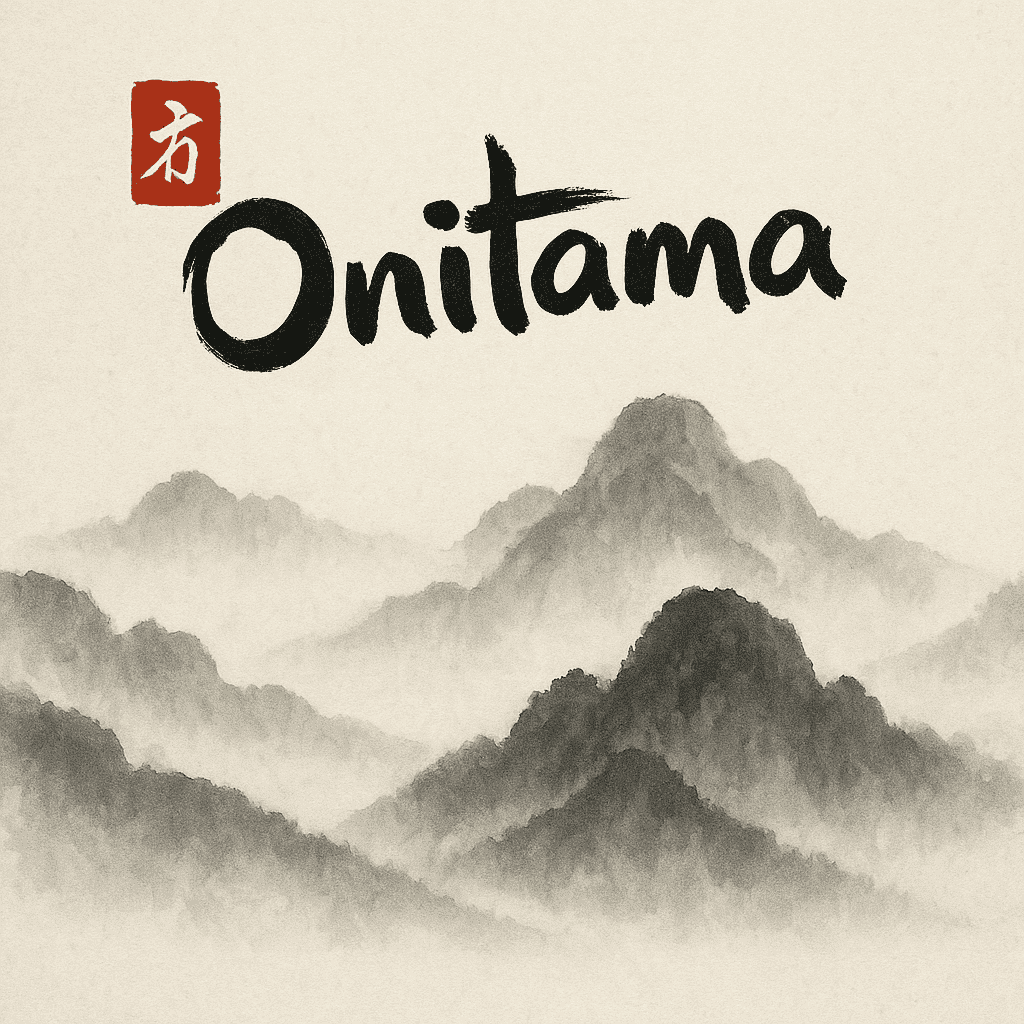
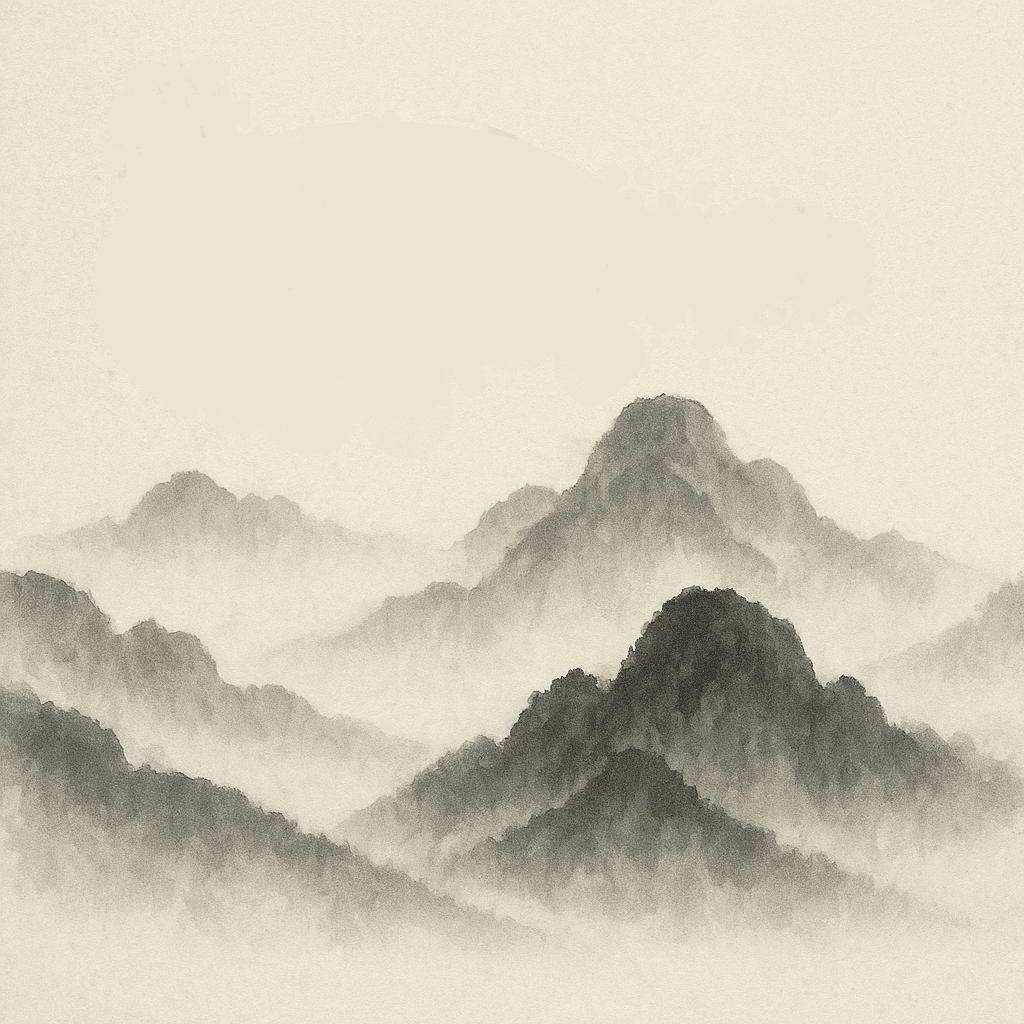
mise à jour

Changed region(s): [[0.125, 0.0625, 0.8438, 0.375]]

diff --git a/src/Vue/Adaptateurs/AdaptateurClavier.java b/src/Vue/Adaptateurs/AdaptateurClavier.java
@@ -31,57 +31,122 @@ import Vue.CollecteurEvenements;
 
 import java.awt.event.KeyEvent;
 import java.awt.event.KeyListener;
+import java.util.logging.Logger;
 
-
+/**
+ * Adaptateur qui transforme les événements clavier en commandes pour le jeu.
+ * Cette classe implémente KeyListener et peut être attachée à n'importe quel composant Swing.
+ */
 public class AdaptateurClavier implements KeyListener {
-    CollecteurEvenements control;
+    private static final Logger logger = Logger.getLogger(AdaptateurClavier.class.getName());
+    private final CollecteurEvenements control;
 
+    /**
+     * Constructeur de l'adaptateur clavier.
+     * 
+     * @param c Le collecteur d'événements qui recevra les commandes générées par les touches du clavier
+     */
     public AdaptateurClavier(CollecteurEvenements c) {
         control = c;
     }
 
+    /**
+     * Gère les événements de touche pressée et les transmet au collecteur d'événements.
+     * 
+     * @param event L'événement de touche pressée
+     */
     @Override
     public void keyPressed(KeyEvent event) {
+        String commande = null;
+
         switch (event.getKeyCode()) {
+            // Gestion du jeu
             case KeyEvent.VK_U:
-                control.clavier("annuler");
-                System.out.println("annuler");
+                commande = "annuler";
                 break;
             case KeyEvent.VK_R:
-                control.clavier("refaire");
-                System.out.println("refaire");
+                commande = "refaire";
                 break;
-            case KeyEvent.VK_Q:
-            case KeyEvent.VK_A:
-                control.clavier("exit");
-                System.out.println("exit");
+            case KeyEvent.VK_SPACE:
+            case KeyEvent.VK_P:
+                commande = "pause";
                 break;
-            case KeyEvent.VK_I:
-                control.clavier("ia");
-                System.out.println("ia");
-                break;
+
+            // Navigation
             case KeyEvent.VK_ESCAPE:
-                control.clavier("full");
-                System.out.println("full");
+                commande = "full";
+                break;
+            case KeyEvent.VK_F:
+                commande = "full";
                 break;
             case KeyEvent.VK_ENTER:
-                control.clavier("demarrer");
+                commande = "demarrer";
                 break;
-                case KeyEvent.VK_SPACE:
-                    control.clavier("pause");
-                    break;
+            case KeyEvent.VK_M:
+                commande = "menu";
+                break;
 
+            // Actions
+            case KeyEvent.VK_Q:
+            case KeyEvent.VK_A:
+                commande = "exit";
+                break;
+            case KeyEvent.VK_S:
+                commande = "sauvegarder";
+                break;
+            case KeyEvent.VK_N:
+                commande = "nouvellePartie";
+                break;
+            case KeyEvent.VK_H:
+                commande = "regles";
+                break;
+
+            // IA
+            case KeyEvent.VK_I:
+                commande = "ia";
+                break;
+
+            // Navigation dans le menu avec les flèches
+            case KeyEvent.VK_UP:
+                commande = "haut";
+                break;
+            case KeyEvent.VK_DOWN:
+                commande = "bas";
+                break;
+            case KeyEvent.VK_LEFT:
+                commande = "gauche";
+                break;
+            case KeyEvent.VK_RIGHT:
+                commande = "droite";
+                break;
+        }
+
+        if (commande != null) {
+            logger.info("Touche clavier: " + commande);
+            control.clavier(commande);
         }
     }
 
+    /**
+     * Méthode appelée lorsqu'une touche est relâchée.
+     * Cette méthode est requise par l'interface KeyListener mais n'est pas utilisée dans cette implémentation.
+     * 
+     * @param e L'événement de touche relâchée
+     */
     @Override
     public void keyReleased(KeyEvent e) {
-        // Pas utilisé, mais doit être implémenté.
+        // Pas utilisé, mais doit être implémenté pour l'interface KeyListener.
     }
 
+    /**
+     * Méthode appelée lorsqu'une touche est tapée (pressée puis relâchée).
+     * Cette méthode est requise par l'interface KeyListener mais n'est pas utilisée dans cette implémentation.
+     * 
+     * @param e L'événement de touche tapée
+     */
     @Override
     public void keyTyped(KeyEvent e) {
-        // Non utilisé, mais doit être implémenté.
+        // Non utilisé, mais doit être implémenté pour l'interface KeyListener.
     }
 
 

diff --git a/src/Vue/EcranDeDemarrage.java b/src/Vue/EcranDeDemarrage.java
@@ -275,7 +275,7 @@ public class EcranDeDemarrage extends JTabbedPane {
      * @return Le JPanel de l'onglet Couleur.
      */
     private JPanel creerOngletCouleur() {
-        PanelAvecImage ongletCouleur = new PanelAvecImage(PATH_ARRIERE_PLAN_03);
+        PanelAvecImage ongletCouleur = new PanelAvecImage(PATH_ARRIERE_PLAN_12);
         ongletCouleur.setLayout(new GridBagLayout());
         GridBagConstraints gbc;
         int ligneCourante = 0;
@@ -383,7 +383,7 @@ public class EcranDeDemarrage extends JTabbedPane {
         couleursInitiales.put(cible, couleurInitiale);
 
         // Étiquette descriptive
-        JPanel etiquettePanel = PngText.createPngPanel(texteEtiquette, 20);
+        JPanel etiquettePanel = PngText.createPngPanel(texteEtiquette, 23);
         etiquettePanel.setOpaque(false);
         etiquettePanel.setFont(FONT_LABEL);
         GridBagConstraints gbcLabel = new GridBagConstraints();
@@ -583,21 +583,4 @@ public class EcranDeDemarrage extends JTabbedPane {
     }
 
 
-    /**
-     * Crée un JLabel avec une image redimensionnée.
-     * (Note: Cette méthode est moins utilisée maintenant que PngText.createPngPanel est préféré pour les labels PNG).
-     *
-     * @param urlImage Le chemin vers l'image.
-     * @param width    La largeur désirée de l'image.
-     * @param height   La hauteur désirée de l'image.
-     * @return Un JLabel contenant l'image redimensionnée.
-     */
-    private JLabel creerLabelAvecImage(URL urlImage, int width, int height) {
-        JLabel label = new JLabel();
-        ImageIcon icon = new ImageIcon(urlImage);
-        Image image = icon.getImage().getScaledInstance(width, height, Image.SCALE_SMOOTH);
-        ImageIcon scaledIcon = new ImageIcon(image);
-        label.setIcon(scaledIcon);
-        return label;
-    }
 }

diff --git a/src/Vue/EcranMenu.java b/src/Vue/EcranMenu.java
@@ -68,8 +68,17 @@ public class EcranMenu extends PanelAvecImage implements Observateur {
         this.interfaceGraphique = interfaceGraphique;
         this.jeu.ajouteObservateur(this);
 
+        // Rendre l'écran focusable pour recevoir les événements clavier
+        this.setFocusable(true);
+
+        // Ajouter l'adaptateur clavier
+        this.addKeyListener(new AdaptateurClavier(collecteurEv));
+
         initialiserLayout();
         miseAJour();
+
+        // Demander le focus pour recevoir les événements clavier
+        this.requestFocusInWindow();
     }
 
 

diff --git a/src/Global/Paths.java b/src/Global/Paths.java
@@ -49,6 +49,8 @@ public class Paths {
     public static final URL PATH_ARRIERE_PLAN_03 = getArrierePlanPath("arrierePlan10.png");
     public static final URL PATH_ARRIERE_PLAN_4 = getArrierePlanPath("arrierePlan4.png");
     public static final URL PATH_ARRIERE_PLAN_8 = getArrierePlanPath("arrierePlan8.png");
+    public static final URL PATH_ARRIERE_PLAN_12 = getArrierePlanPath("arrierePlan12.png");
+
 
     /********************************************
      *              IMAGES PIONS               *

diff --git a/src/Global/Config.java b/src/Global/Config.java
@@ -61,7 +61,7 @@ public class Config {
     }
 
     // -- DIMENSION --
-    public static final Dimension DIM_SCENE = new Dimension(800, 600);
+    public static final Dimension DIM_SCENE = new Dimension(800, 650);
 
     // --- DEBUG --
     public static final boolean MODEDEBUG = true;
